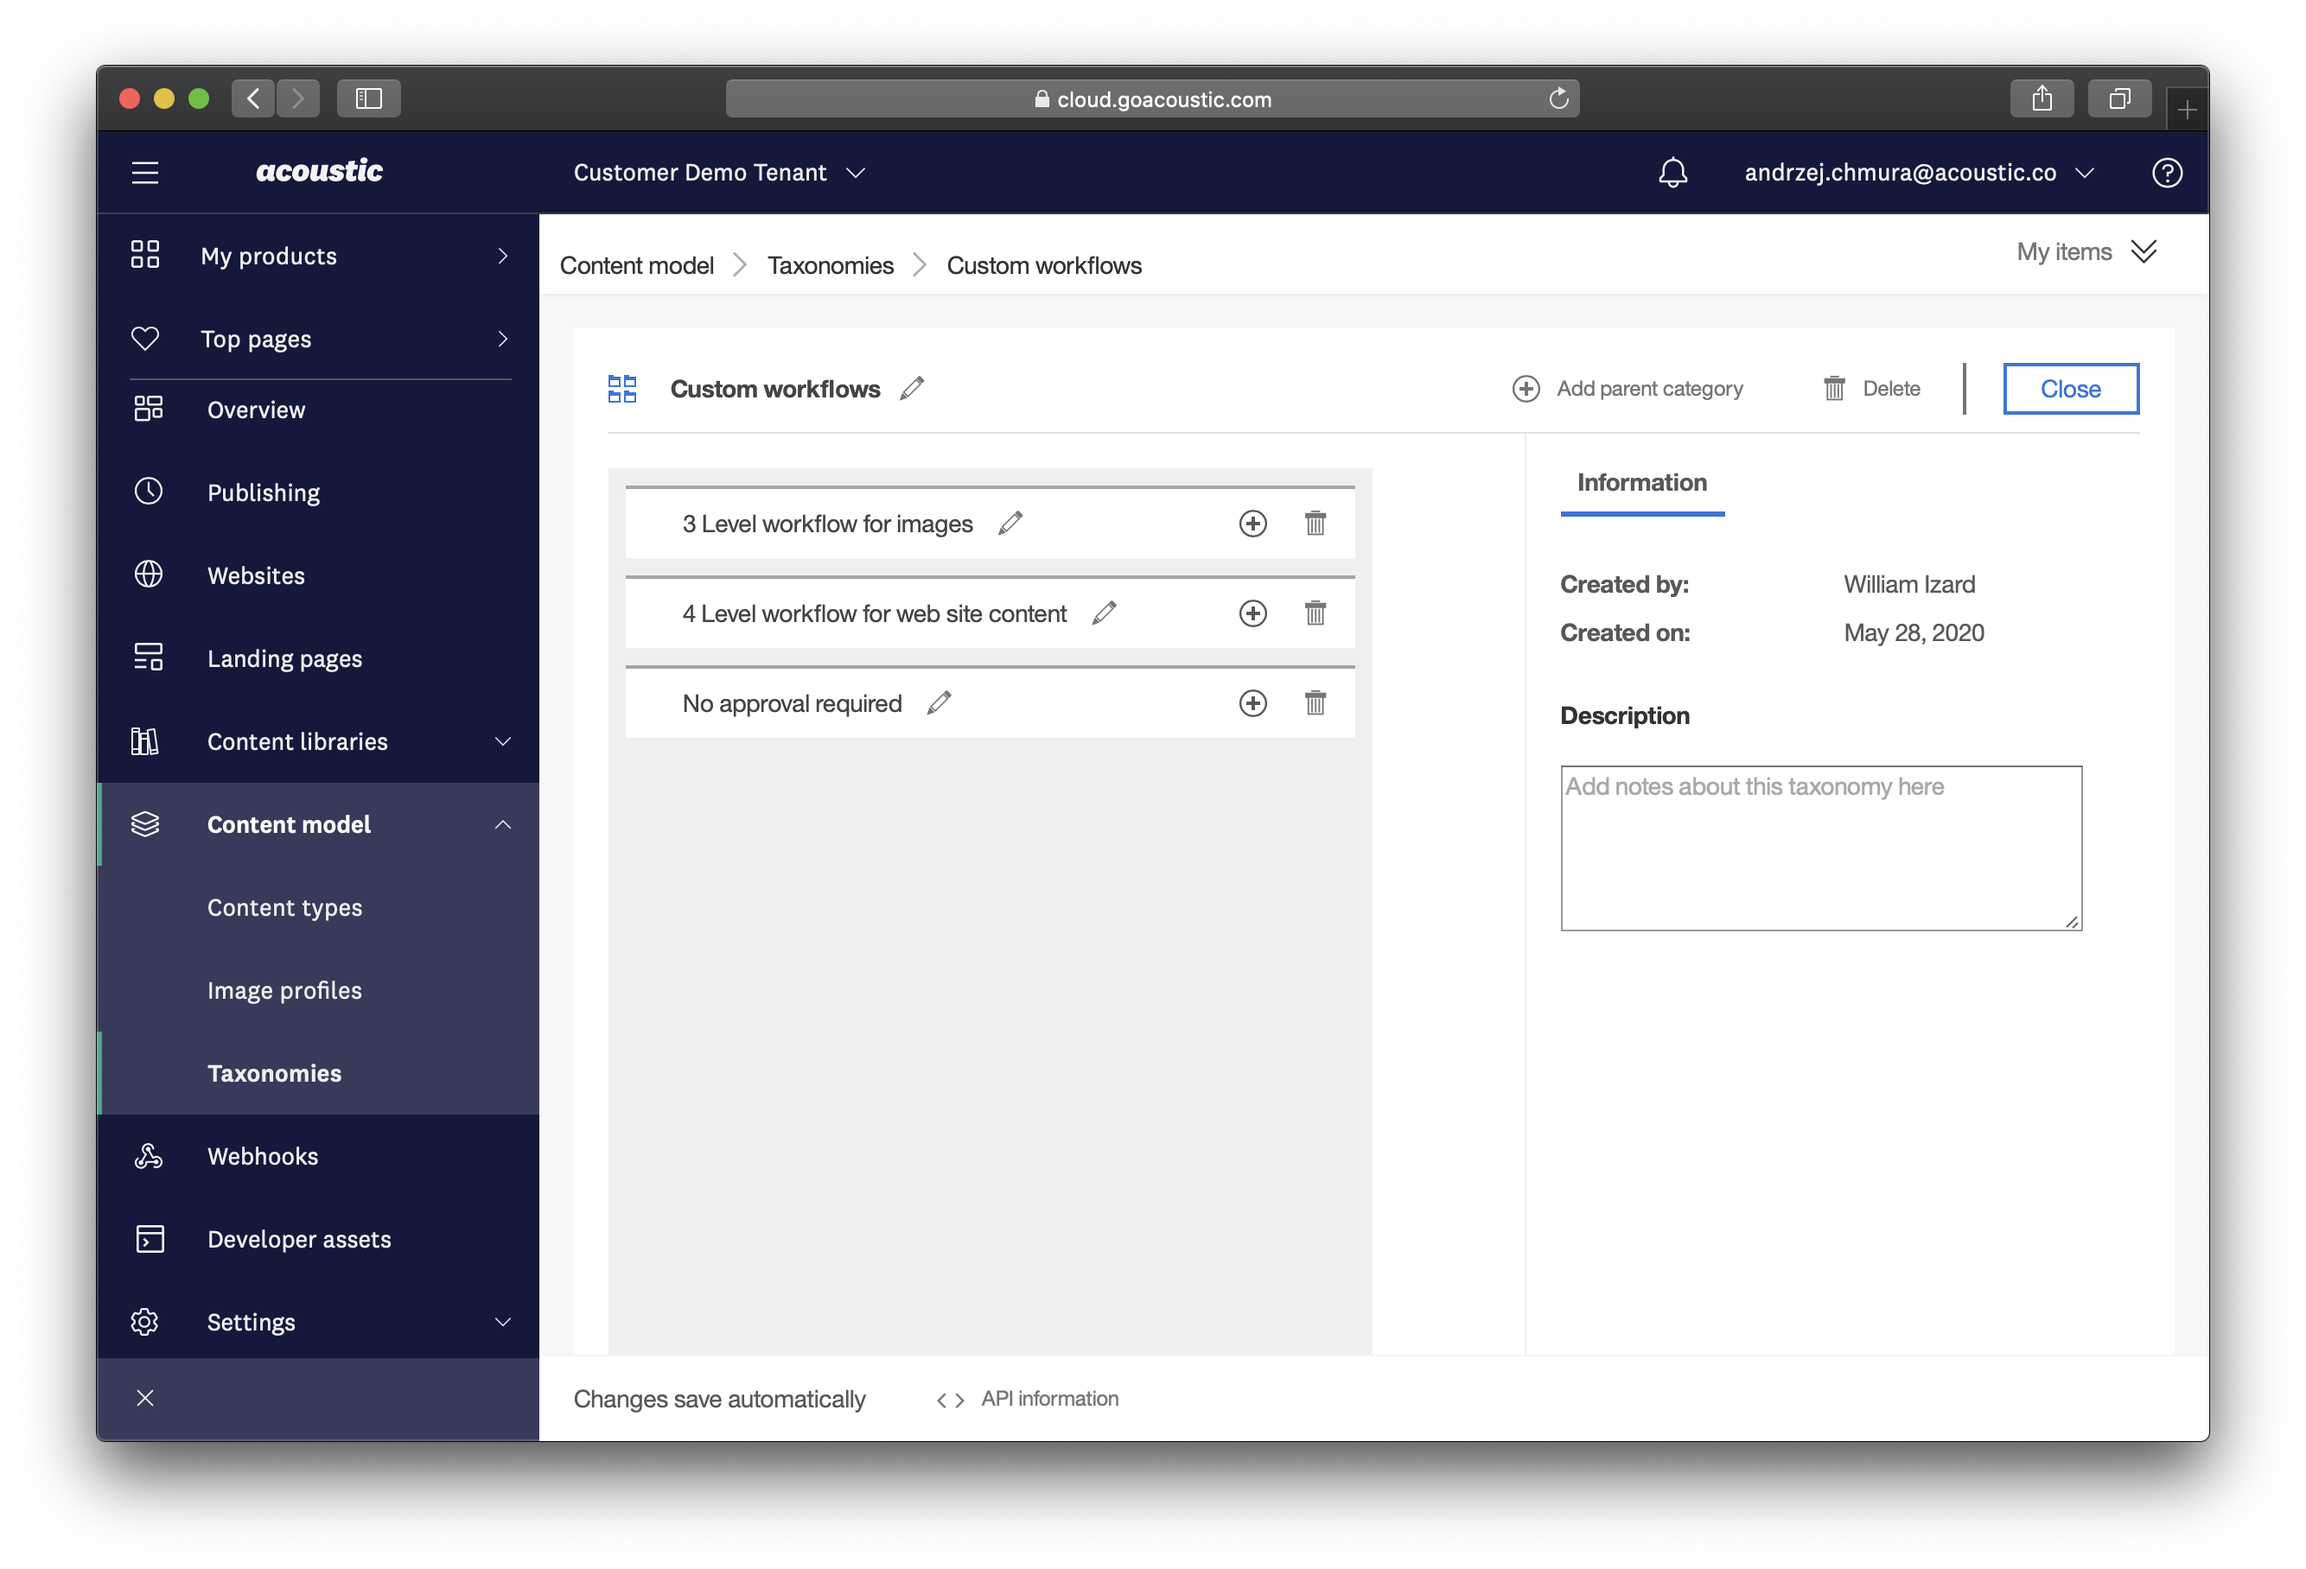
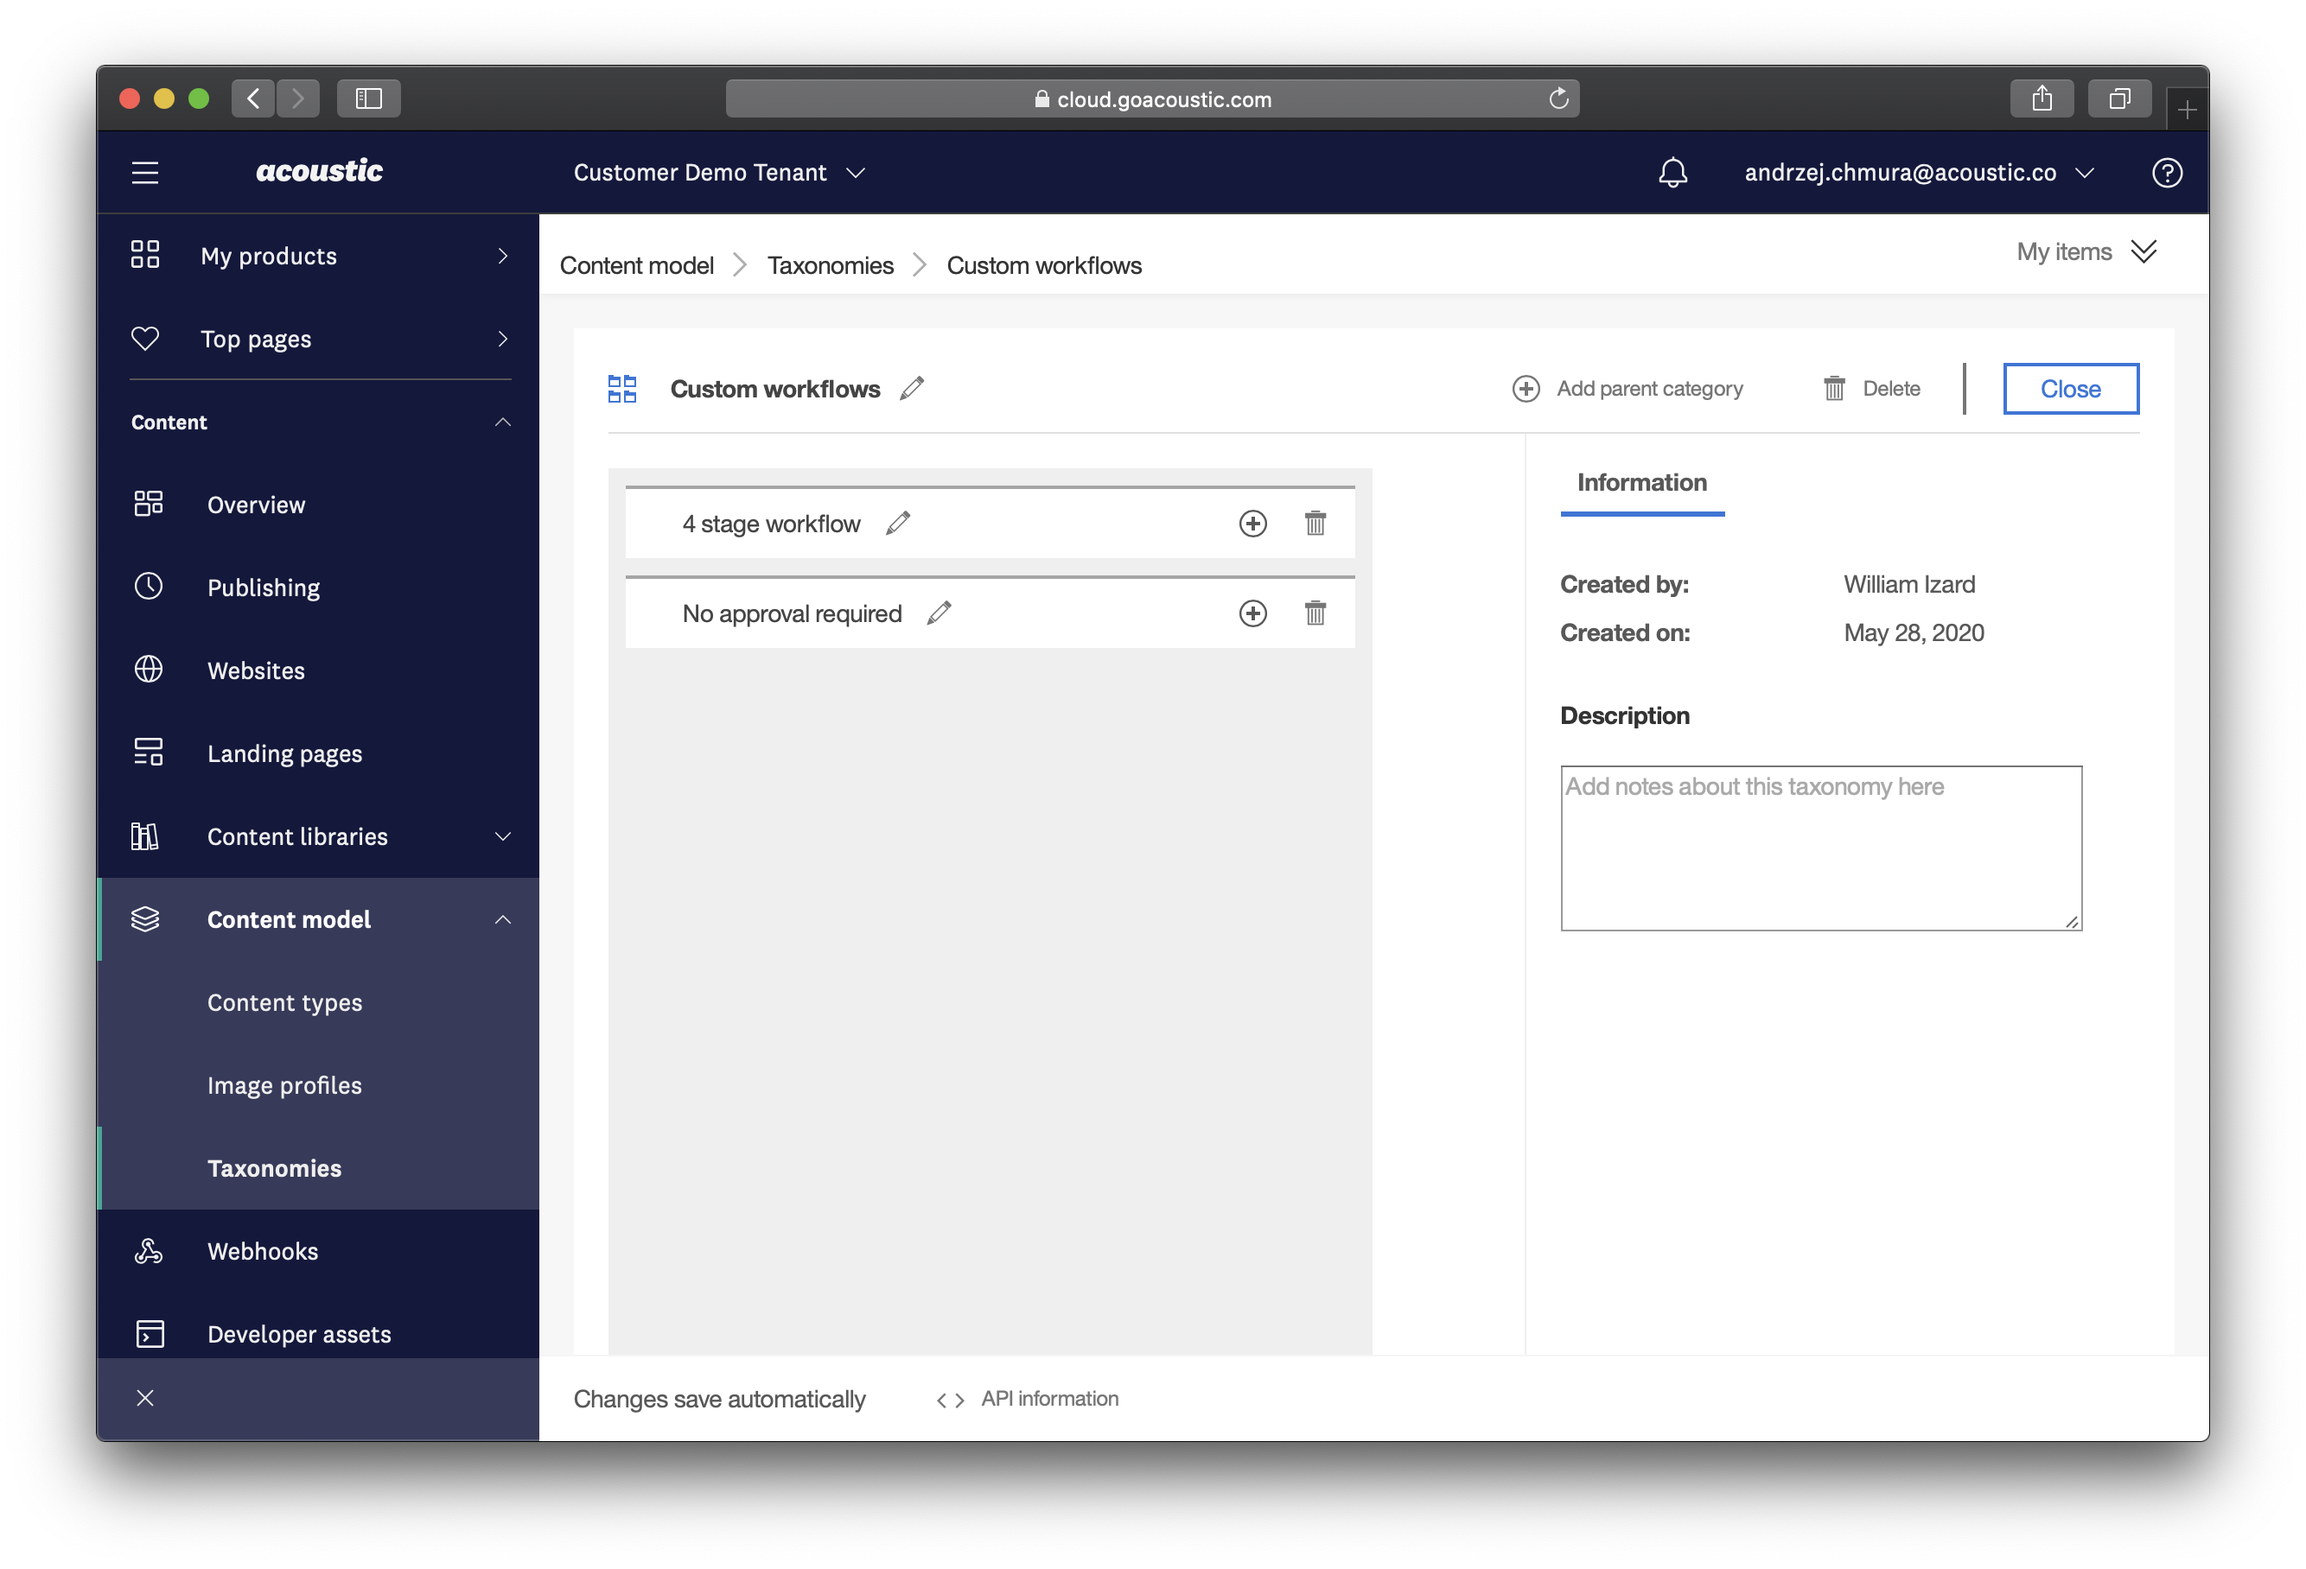
Update readme to only include 4 stage workflow

diff --git a/external-task-management/README.md b/external-task-management/README.md
@@ -20,10 +20,9 @@ We will use multiple Zaps to handle the entire workflow from start to finish:
 
 1. Approve the review using a webhook
 2. Initialize custom workflow
-3. Synchronize comments for 3 stage workflow for images
-4. Synchronize comments for 4 stage workflow for web site content
-5. 3 stage workflow for images
-6. 4 stage workflow for web site content
+3. Synchronize comments using webhooks
+4. 4 stage workflow/Step 1
+5. 4 stage workflow/Step 2
 
 ## Preparation
 
@@ -34,8 +33,7 @@ We will use multiple Zaps to handle the entire workflow from start to finish:
 ![01](./01.png)
 
 2. Define the custom workflows as Taxonomies. In the Acoustic Content user iterface go to Content model -> Taxonomies and Create taxonomy. In this example, we will call this 'Custom workflows'. Next, add a category for each custom workflow you want to provide. In our examples this is:
-- 3 stage workflow for images
-- 4 stage workflow for web site content
+- 4 stage workflow
 - No approval required
 
 ![02](./02.png)
@@ -48,7 +46,7 @@ We will use multiple Zaps to handle the entire workflow from start to finish:
 
 1. Sign up to a free Trello account or use your existing Trello account.
 2. Create a new team. A personal board can not be used due to the limitations they have, which we will be highlighted later.
-3. Create a new board for each workflow that requires a Trello board for management. In our case, this will be '3 stage workflow for images' and '4 stage workflow for web site content'.
+3. Create a new board for each workflow that requires a Trello board for management. In our case, this will be '4 stage workflow'.
 
 ## Approve review by webhook Zap.
 
@@ -178,23 +176,23 @@ For this particular workflow, where external approval is no required, all we hav
 
 At this point, the Content Item will be immediately approved in Acoustic Content user interface.
 
-### (Path B - 3 stage workflow for images) - Setup
+### (Path B - 4 stage workflow) - Setup
 
-- Step into the Path B and rename it. Let's call this '3 stage workflow for images'
+- Step into the Path B and rename it. Let's call this '4 stage workflow'
 - Under the 'Rules Setup & Testing' section specify when this particular path should be executed. In our case, this will look like this:
 
 Only continue if...
 
-`<category>` -> (Text) Exactly Matches -> 3 stage workflow for images
+`<category>` -> (Text) Exactly Matches -> 4 stage workflow
 
-### (Path B - 3 stage workflow for images) - Find board in Trello
+### (Path B - 4 stage workflow) - Find board in Trello
 
 - Add 'Trello' step in Zapier.
 - Select 'Find Board' action.
 - Provide Trello credentials or pick already connected Trello account.
-- Under the 'Customize Board' select the Trello team you created in the **Preparatio - Trello** step, and provide the right Board Name - in our case this will be '3 stage workflow for images'. Use Zapier's test feature to make sure that it is able to find the correct board in your Trello team.
+- Under the 'Customize Board' select the Trello team you created in the **Preparatio - Trello** step, and provide the right Board Name - in our case this will be '4 stage workflow'. Use Zapier's test feature to make sure that it is able to find the correct board in your Trello team.
 
-### (Path B - 3 stage workflow for images) - Create Card in Trello
+### (Path B - 4 stage workflow) - Create Card in Trello
 
 - Add another 'Trello' step in Zapier.
 - Select 'Create Card' action.
@@ -229,7 +227,7 @@ Only continue if...
 
 - Trello offers many more possibilities during this step, like setting a custom label, card position or due date.
 
-### (Path B - 3 stage workflow for images) - Send Email notification
+### (Path B - 4 stage workflow) - Send Email notification
 
 - Add 'Email by Zapier' step in Zapier.
 - Select 'Send Outbound Email' action.
@@ -252,9 +250,9 @@ Only continue if...
 
 ![06](./06.png)
 
-## Synchronize comments for 3 stage workflow Zap.
+## Synchronize comments Zap.
 
-Create a new Zap and call it 'Synchronize comments for 3 stage workflow'. This Zap provides the ability to synchronize any comments made on the Trello card, with the comments section for Content Item in Acoustic Content user interface. 
+Create a new Zap and call it 'Synchronize comments'. This Zap provides the ability to synchronize any comments made on the Trello card, with the comments section for Content Item in Acoustic Content user interface. 
 
 ![Trello comments](./Trello_comments.png)
 
@@ -268,7 +266,7 @@ This Zap uses three steps:
 - Add 'Trello' step in Zapier.
 - Select 'New Activity' action.
 - Provide Trello credentials or pick an already connected Trello account.
-- Under the 'Customize Activity' select the activity type and board that should be watched. In out case this will be activity of type 'Comment Added to Card' and board '3 stage workflow for images'.
+- Under the 'Customize Activity' select the activity type and board that should be watched. In out case this will be activity of type 'Comment Added to Card' and board '4 stage workflow'.
 
 ### Extract data from Trello card
 
@@ -307,13 +305,9 @@ output = {content_id: content_id, text: text};
 
 - add Acoustic Content credentials for the user External Approver under the **Basic Auth** section.
 
-## Synchronize comments for 4 Level workflow Zap.
+## 4 stage workflow/Step 1 Zap.
 
-This Zap is almost exactly the same as the previous one, with the exception of a different Trello board that should be watched. If you want to synchronize the comments for each custom workflow, you need to create a different Zap for each one of those workflows separately. Repeat the above step with the different Trello board to complete this.
-
-## 3 stage workflow/Step 1 Zap.
-
-Create a new Zap and call it '3 stage workflow/Step 1'. This Zap handles the first part of the actual workflow we want to provide.
+Create a new Zap and call it '4 stage workflow/Step 1'. This Zap handles the first part of the actual workflow we want to provide.
 
 ![Trello_2](./Trello_2.png)
 
@@ -326,7 +320,7 @@ It uses only two steps:
 - Add 'Trello' step in Zapier.
 - Select 'Card Moved to List' action.
 - Provide Trello credentials or pick an already connected Trello account.
-- Under the 'Customize Card Moved' select the board that should be watched and the List where the card was moved to. In out case this will be '3 stage workflow' board and 'Awaiting final sign off' list.
+- Under the 'Customize Card Moved' select the board that should be watched and the List where the card was moved to. In out case this will be '4 stage workflow' board and 'Awaiting final sign off' list.
 
 ### Send Email notification
 
@@ -351,9 +345,9 @@ This step is very similar to the previous Email workflow.
         - `[[PREVIEW_URL]]` is the URL pointing to your preview environment.
         - `[[APPROVE_BY_WEBHOOK_URL]]` is the unique URL obtained from Zapier in step **Approve review by webhook Zap**. 
 
-## 3 stage workflow/Step 2 Zap.
+## 4 stage workflow/Step 2 Zap.
 
-Create a new Zap and call it '3 stage workflow/Step 2'. This Zap handles the second part of the actual workflow we want to provide.
+Create a new Zap and call it '4 stage workflow/Step 2'. This Zap handles the second part of the actual workflow we want to provide.
 
 ![Trello_3](./Trello_3.png)
 
@@ -368,7 +362,7 @@ It uses four steps:
 - Add 'Trello' step in Zapier.
 - Select 'Card Moved to List' action.
 - Provide Trello credentials or pick already connected Trello account.
-- Under the 'Customize Card Moved' select the board that should be watched and the List where the card was moved to. In out case this will be '3 Level workflow' board and 'Approved' list.
+- Under the 'Customize Card Moved' select the board that should be watched and the List where the card was moved to. In out case this will be '4 stage workflow' board and 'Approved' list.
 
 ### Extract data from Trello card
 
@@ -413,3 +407,8 @@ Again, this step is similar to previous Email steps, but this time the email not
         your content has been approved. 
         View card in Trello: <1. Card URL>
         ```
+
+## Summary
+This samples shows how an entire approval process for Content can be managed externally. 
+
+Once set up, webhooks offer great flexibility to define custom workflows using existing tools. The example above is only scratching the surface. Possible scenarios include custom translation approval process, notifications for different stages via Slack/Email/SMS or creating content items as a result of some external action.
